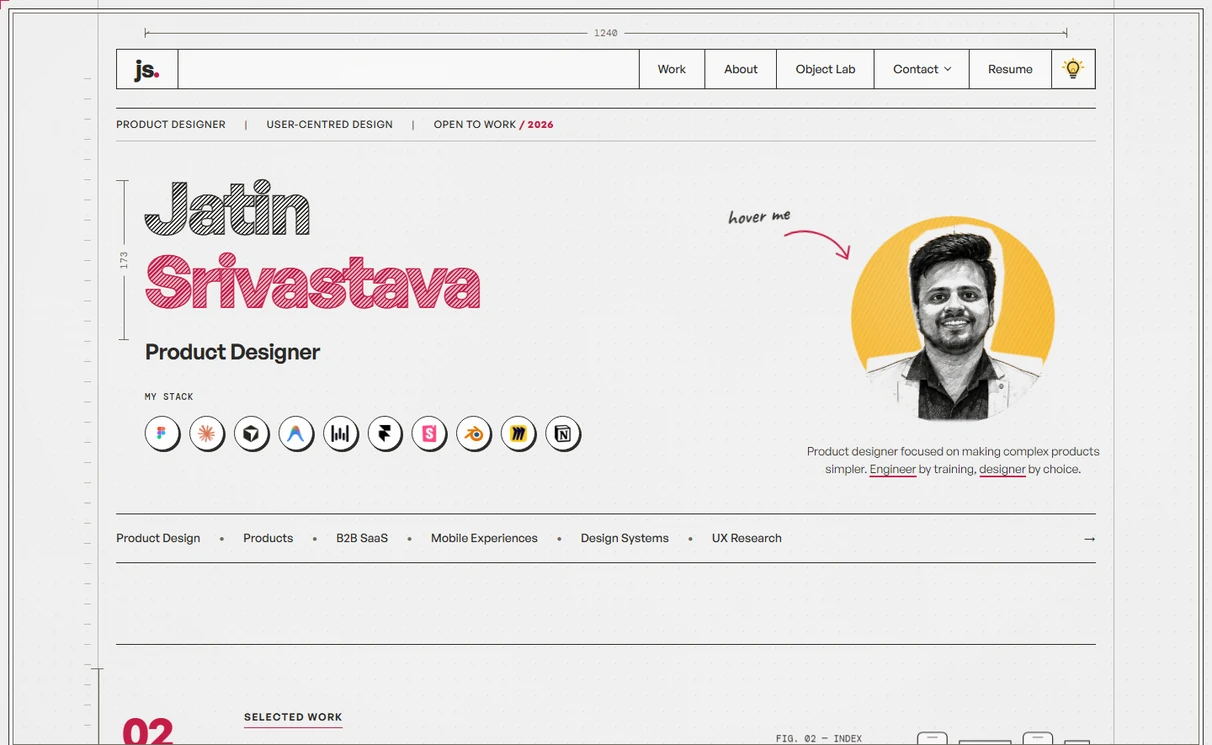
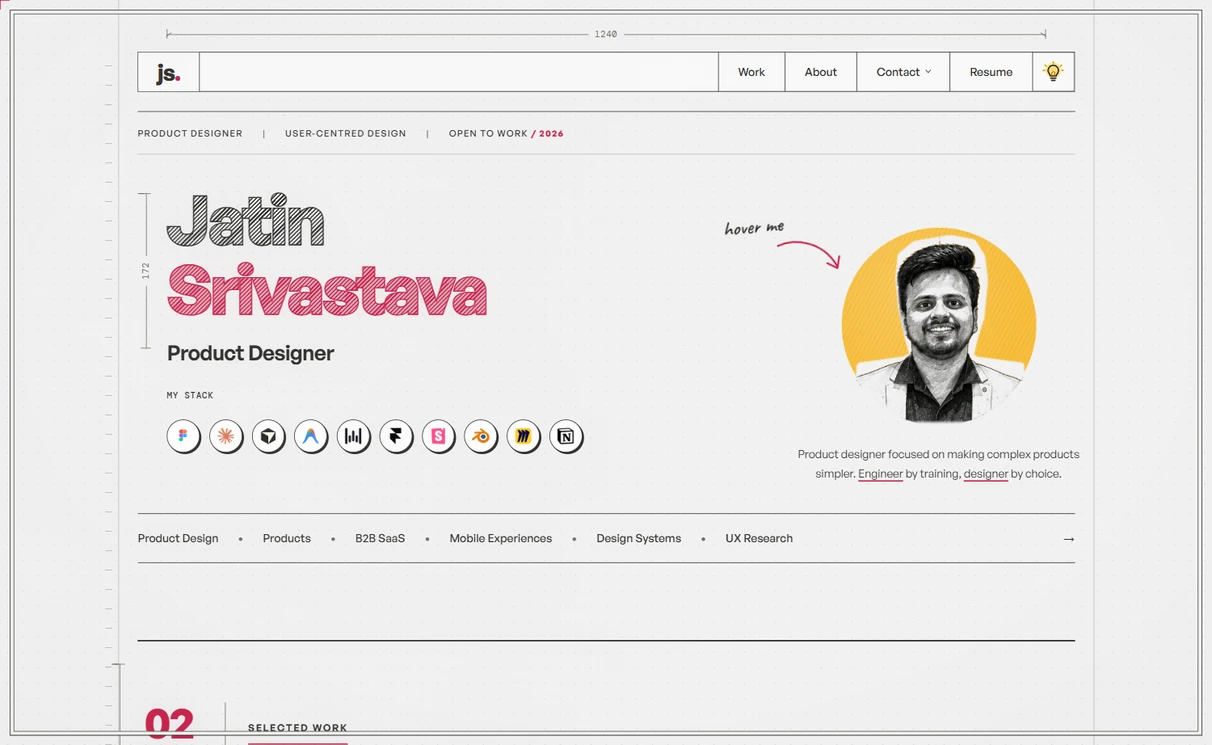
Intro: homepage panel now shows the current header (no Object Lab link)
The opening animation's homepage screenshot was taken before the nav changed. Replaced it with a fresh capture of the live home page and bumped the intro script version.

diff --git a/site/intro.js b/site/intro.js
@@ -321,7 +321,7 @@
       s += T(940, 130, "SHEET 3 / 3", "mono", 24, 'text-anchor="end"');
       s += L(60, 176, 940, 176) + L(60, 164, 60, 188, "thin") + L(940, 164, 940, 188, "thin");
       s += T(500, 162, "1240", "mono", 22, MID);
-      s += '<image href="assets/intro/hero.webp?v=3" x="' + HERO.x + '" y="' + HERO.y + '" width="' + HERO.w + '" height="' + HERO.h.toFixed(1) + '" preserveAspectRatio="none"/>';
+      s += '<image href="assets/intro/hero.webp?v=4" x="' + HERO.x + '" y="' + HERO.y + '" width="' + HERO.w + '" height="' + HERO.h.toFixed(1) + '" preserveAspectRatio="none"/>';
       s += R(HERO.x, HERO.y, HERO.w, HERO.h.toFixed(1), "thin");
       s += T(60, HERO.y + HERO.h + 70, "PRODUCT DESIGN · USER-CENTRED", "mono", 24);
       s += T(60, HERO.y + HERO.h + 112, "ENGINEER BY TRAINING · DESIGNER BY CHOICE", "mono", 24);
@@ -477,7 +477,7 @@
     }
     window.__introGo = go;
     if (!/[?&]hold/.test(location.search)) {
-      var imgs = ["assets/intro/hero.webp?v=3", "assets/portrait/final.webp"].map(function (u2) {
+      var imgs = ["assets/intro/hero.webp?v=4", "assets/portrait/final.webp"].map(function (u2) {
         var im = new Image(); im.src = u2; return im.decode ? im.decode().catch(function () {}) : Promise.resolve();
       });
       Promise.all(imgs).then(go);

diff --git a/site/index.html b/site/index.html
@@ -246,7 +246,7 @@
   <script src="https://cdnjs.cloudflare.com/ajax/libs/gsap/3.12.5/gsap.min.js"></script>
   <script src="https://cdnjs.cloudflare.com/ajax/libs/gsap/3.12.5/ScrollTrigger.min.js"></script>
   <script src="https://cdn.jsdelivr.net/npm/lenis@1.1.13/dist/lenis.min.js"></script>
-  <script src="intro.js?v=29"></script>
+  <script src="intro.js?v=30"></script>
   <script src="script.js?v=16"></script>
   <dialog class="bl-lb" id="bl-lb" aria-label="3D renders">
     <div class="bl-stage">
